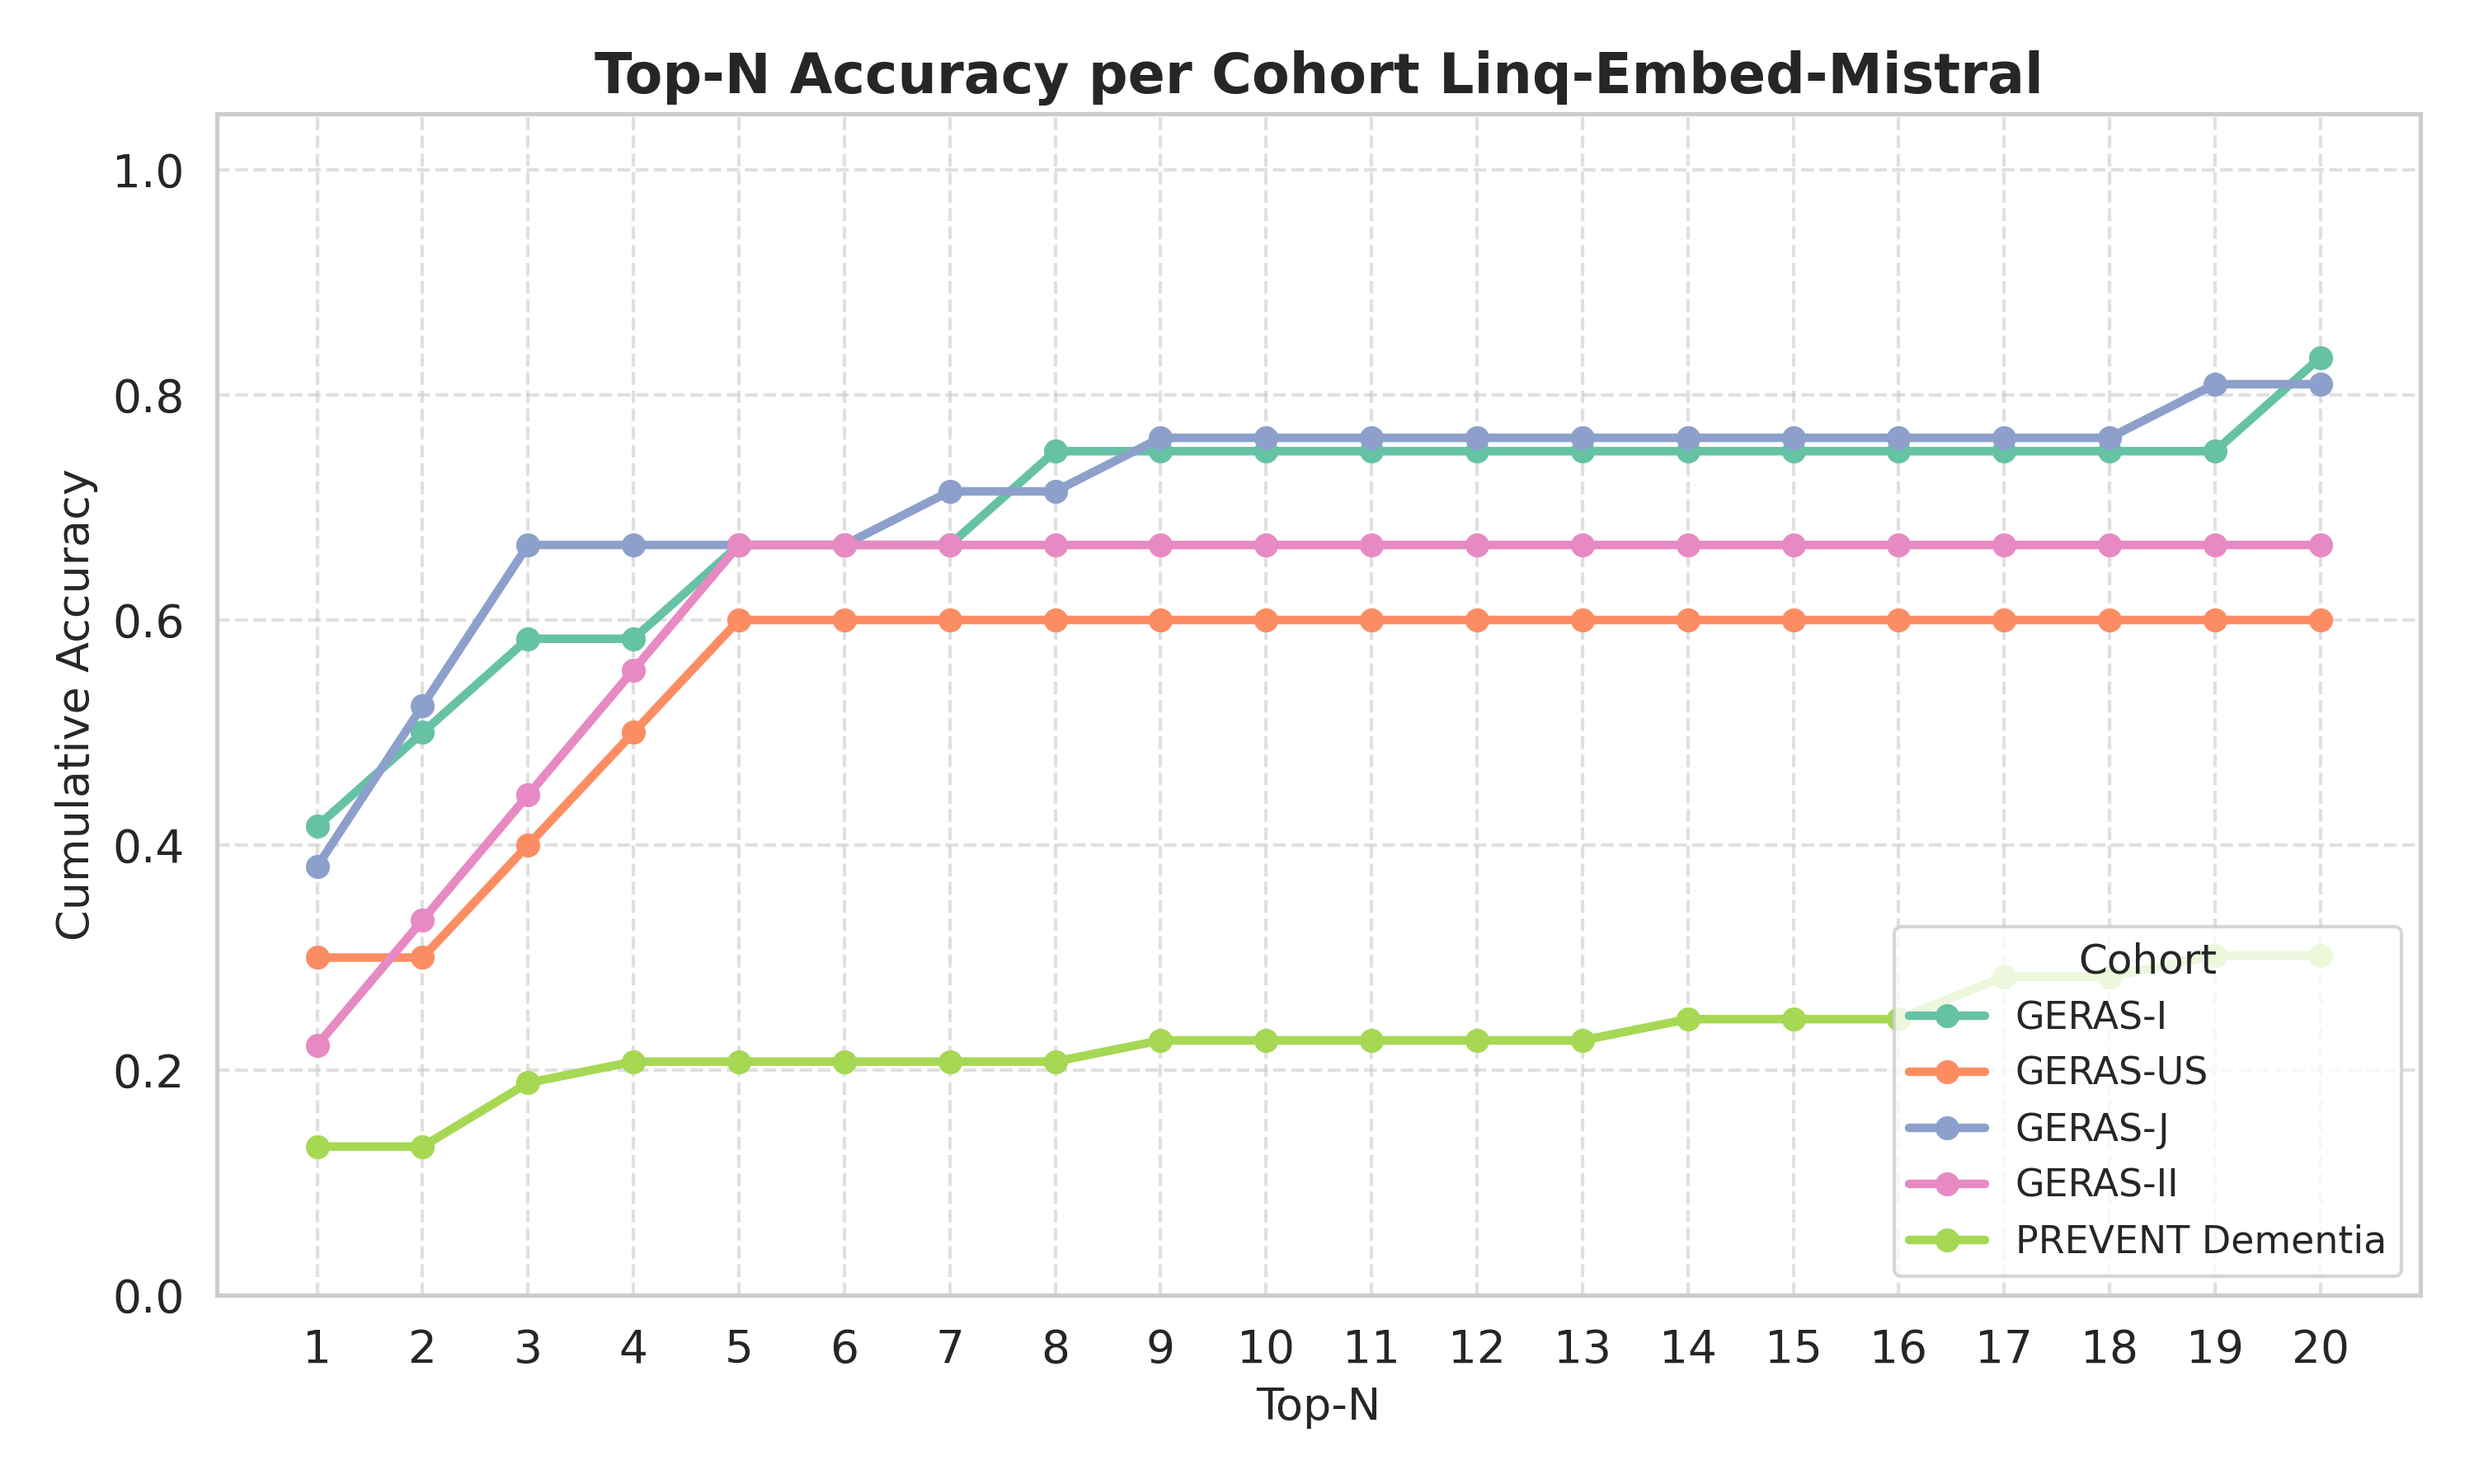
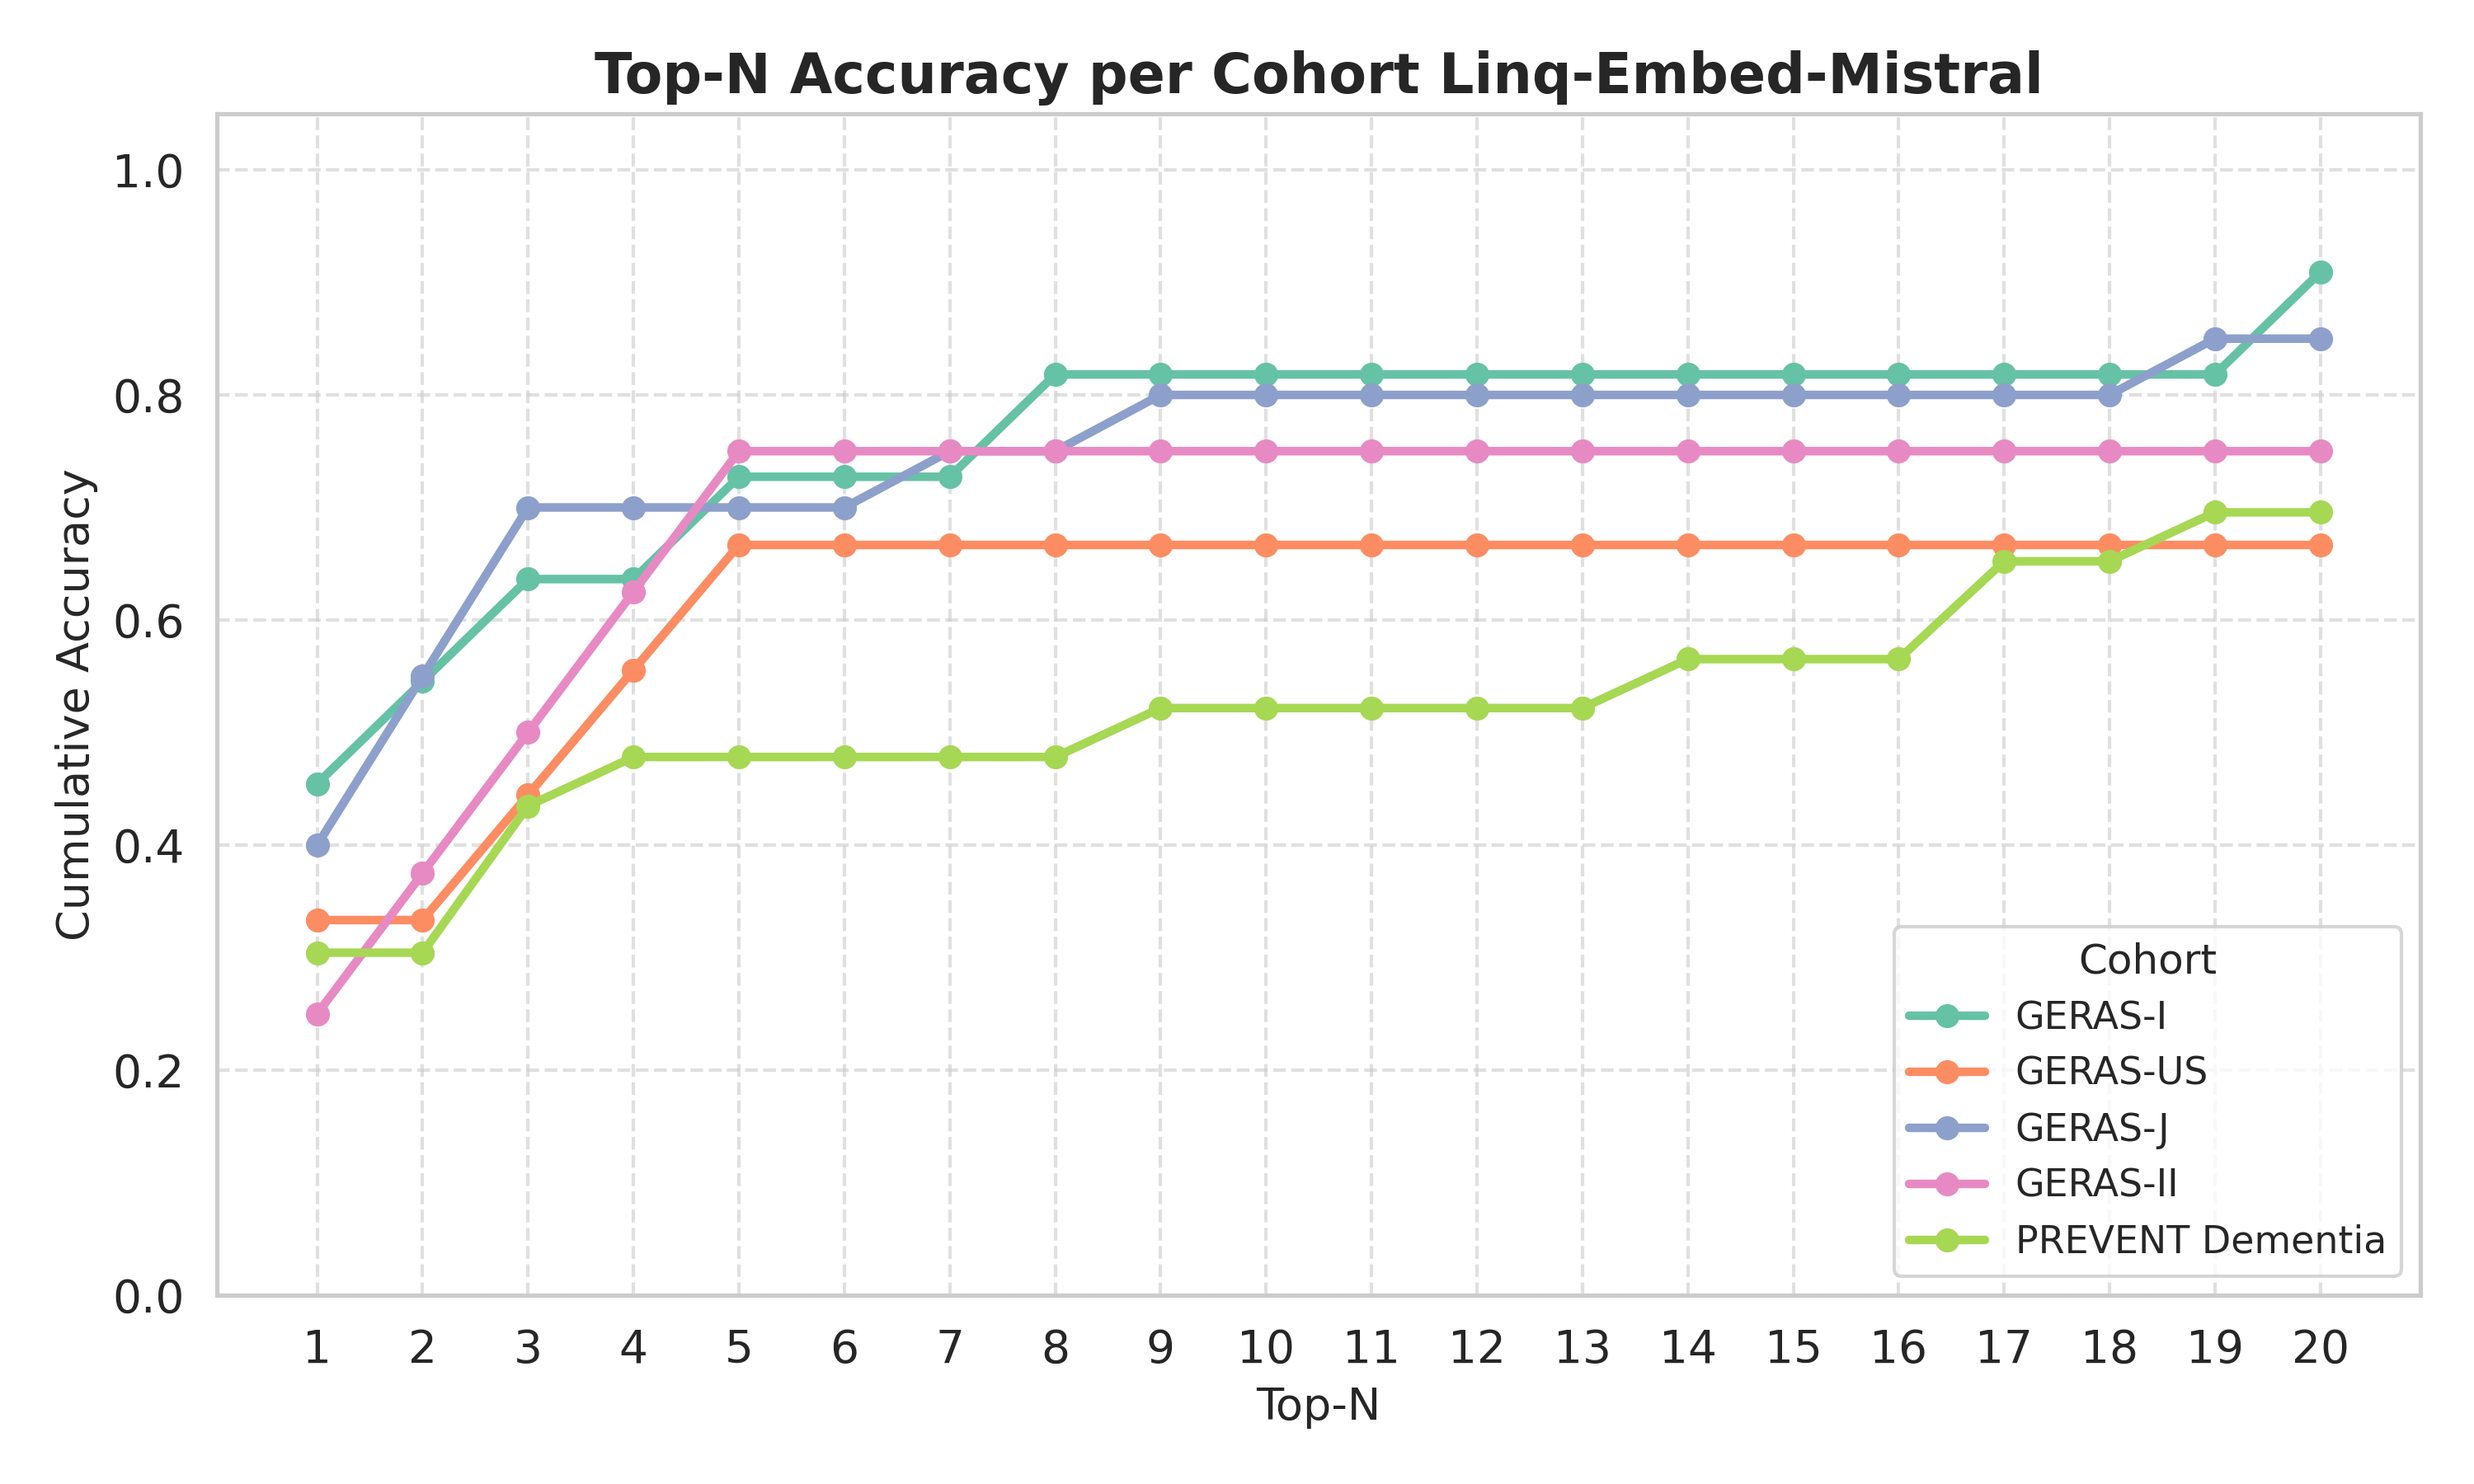
update plots

diff --git a/ad-llm-embeddings-benchmark/visualization.py b/ad-llm-embeddings-benchmark/visualization.py
@@ -128,23 +128,23 @@ results_openai = {
                          0.9130434782608695, 0.9130434782608695, 0.9130434782608695]}
 
 results_linq = {
-    'GERAS-I': [0.4166666666666667, 0.5, 0.5833333333333334, 0.5833333333333334, 0.6666666666666666, 0.6666666666666666,
-                0.6666666666666666, 0.75, 0.75, 0.75, 0.75, 0.75, 0.75, 0.75, 0.75, 0.75, 0.75, 0.75, 0.75,
-                0.8333333333333334],
-    'GERAS-US': [0.3, 0.3, 0.4, 0.5, 0.6, 0.6, 0.6, 0.6, 0.6, 0.6, 0.6, 0.6, 0.6, 0.6, 0.6, 0.6, 0.6, 0.6, 0.6, 0.6],
-    'GERAS-J': [0.38095238095238093, 0.5238095238095238, 0.6666666666666666, 0.6666666666666666, 0.6666666666666666,
-                0.6666666666666666, 0.7142857142857143, 0.7142857142857143, 0.7619047619047619, 0.7619047619047619,
-                0.7619047619047619, 0.7619047619047619, 0.7619047619047619, 0.7619047619047619, 0.7619047619047619,
-                0.7619047619047619, 0.7619047619047619, 0.7619047619047619, 0.8095238095238095, 0.8095238095238095],
-    'GERAS-II': [0.2222222222222222, 0.3333333333333333, 0.4444444444444444, 0.5555555555555556, 0.6666666666666666,
+    'GERAS-I': [0.45454545454545453, 0.5454545454545454, 0.6363636363636364, 0.6363636363636364, 0.7272727272727273,
+                0.7272727272727273, 0.7272727272727273, 0.8181818181818182, 0.8181818181818182, 0.8181818181818182,
+                0.8181818181818182, 0.8181818181818182, 0.8181818181818182, 0.8181818181818182, 0.8181818181818182,
+                0.8181818181818182, 0.8181818181818182, 0.8181818181818182, 0.8181818181818182, 0.9090909090909091],
+    'GERAS-US': [0.3333333333333333, 0.3333333333333333, 0.4444444444444444, 0.5555555555555556, 0.6666666666666666,
                  0.6666666666666666, 0.6666666666666666, 0.6666666666666666, 0.6666666666666666, 0.6666666666666666,
                  0.6666666666666666, 0.6666666666666666, 0.6666666666666666, 0.6666666666666666, 0.6666666666666666,
                  0.6666666666666666, 0.6666666666666666, 0.6666666666666666, 0.6666666666666666, 0.6666666666666666],
-    'PREVENT Dementia': [0.1320754716981132, 0.1320754716981132, 0.18867924528301888, 0.20754716981132076,
-                         0.20754716981132076, 0.20754716981132076, 0.20754716981132076, 0.20754716981132076,
-                         0.22641509433962265, 0.22641509433962265, 0.22641509433962265, 0.22641509433962265,
-                         0.22641509433962265, 0.24528301886792453, 0.24528301886792453, 0.24528301886792453,
-                         0.2830188679245283, 0.2830188679245283, 0.3018867924528302, 0.3018867924528302]}
+    'GERAS-J': [0.4, 0.55, 0.7, 0.7, 0.7, 0.7, 0.75, 0.75, 0.8, 0.8, 0.8, 0.8, 0.8, 0.8, 0.8, 0.8, 0.8, 0.8, 0.85,
+                0.85],
+    'GERAS-II': [0.25, 0.375, 0.5, 0.625, 0.75, 0.75, 0.75, 0.75, 0.75, 0.75, 0.75, 0.75, 0.75, 0.75, 0.75, 0.75, 0.75,
+                 0.75, 0.75, 0.75],
+    'PREVENT Dementia': [0.30434782608695654, 0.30434782608695654, 0.43478260869565216, 0.4782608695652174,
+                         0.4782608695652174, 0.4782608695652174, 0.4782608695652174, 0.4782608695652174,
+                         0.5217391304347826, 0.5217391304347826, 0.5217391304347826, 0.5217391304347826,
+                         0.5217391304347826, 0.5652173913043478, 0.5652173913043478, 0.5652173913043478,
+                         0.6521739130434783, 0.6521739130434783, 0.6956521739130435, 0.6956521739130435]}
 
 plot_top_n_accuracies(accuracies=results_linq, vectorizer_name="Linq-Embed-Mistral", save_path="plots")
 plot_top_n_accuracies(accuracies=results_openai, vectorizer_name="OpenAI", save_path="plots")
